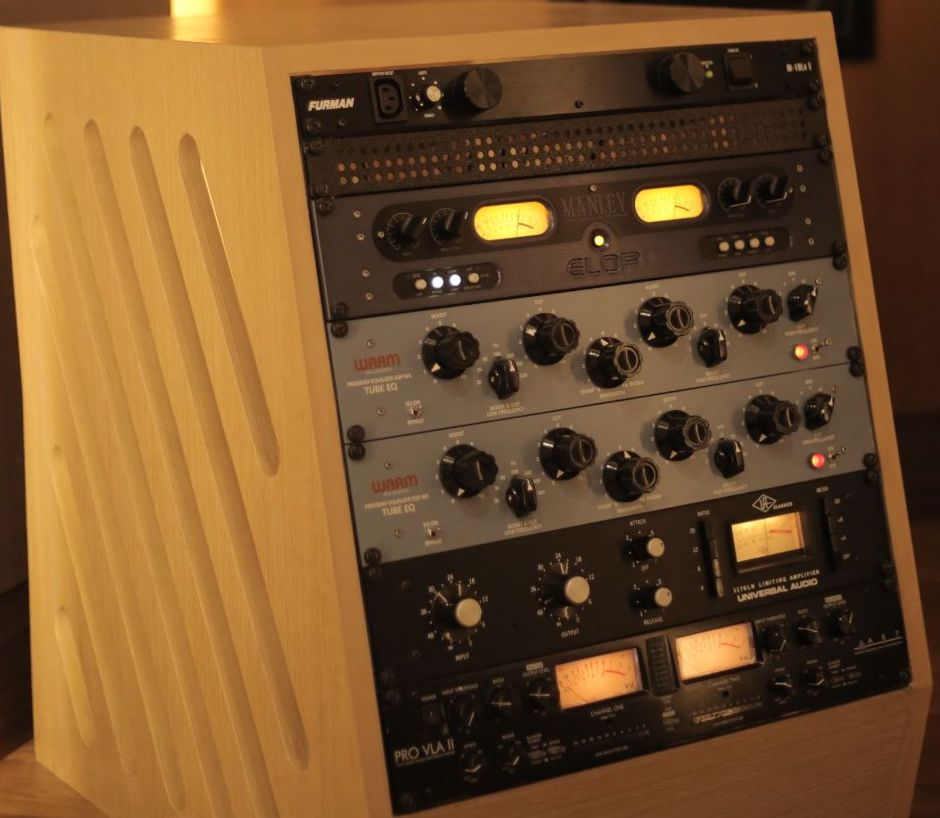
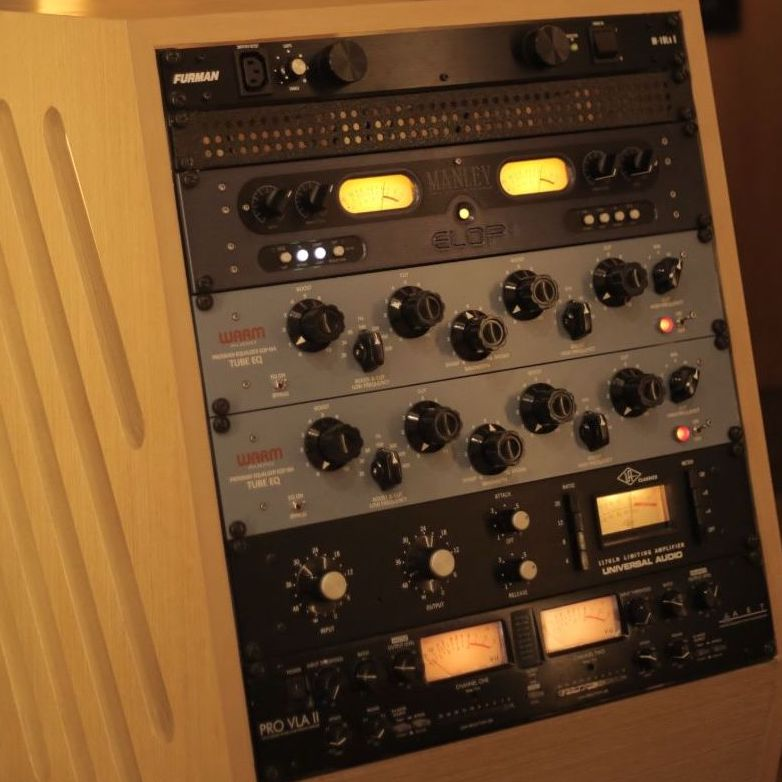
add : largeadd : large images

diff --git a/studio.html b/studio.html
@@ -339,31 +339,31 @@
                     case 1: 
                         var slider_html = `
                           <div>
-                            <a href="images/studio/CR1.jpg" data-lightbox="CR1"><img src="images/studio/CR1.jpg"></a>
+                            <a href="images/studio-big/CR1.jpg" data-lightbox="CR"><img src="images/studio/CR1.jpg"></a>
                           </div>
                           <div>
-                            <a href="images/studio/CR2.jpg" data-lightbox="CR2"><img src="images/studio/CR2.jpg" style="margin-top: -196px;"></a>
+                            <a href="images/studio-big/CR2.jpg" data-lightbox="CR"><img src="images/studio/CR2.jpg" style="margin-top: -196px;"></a>
                           </div>
                           <div>
-                            <a href="images/studio/CR3.jpg" data-lightbox="CR3"><img src="images/studio/CR3.jpg"></a>
+                            <a href="images/studio-big/CR3.jpg" data-lightbox="CR"><img src="images/studio/CR3.jpg"></a>
                           </div>
                           <div>
-                            <a href="images/studio/CR4.jpg" data-lightbox="CR4"><img src="images/studio/CR4.jpg"></a>
+                            <a href="images/studio-big/CR4.jpg" data-lightbox="CR"><img src="images/studio/CR4.jpg"></a>
                           </div>
                           <div>
-                            <a href="images/studio/CR5.jpg" data-lightbox="CR5"><img src="images/studio/CR5.jpg"></a>
+                            <a href="images/studio-big/CR5.jpg" data-lightbox="CR"><img src="images/studio/CR5.jpg"></a>
                           </div>
                           <div>
-                            <a href="images/studio/CR6.jpg" data-lightbox="CR6"><img src="images/studio/CR6.jpg"></a>
+                            <a href="images/studio-big/CR6.jpg" data-lightbox="CR"><img src="images/studio/CR6.jpg"></a>
                           </div>
                           <div>
-                            <a href="images/studio/CR7.jpg" data-lightbox="CR7"><img src="images/studio/CR7.jpg"></a>
+                            <a href="images/studio-big/CR7.jpg" data-lightbox="CR"><img src="images/studio/CR7.jpg"></a>
                           </div>
                           <div>
-                            <a href="images/studio/CR8.jpg" data-lightbox="CR8"><img src="images/studio/CR8.jpg"></a>
+                            <a href="images/studio-big/CR8.jpg" data-lightbox="CR"><img src="images/studio/CR8.jpg"></a>
                           </div>
                           <div>
-                            <a href="images/studio/CR9.jpg" data-lightbox="CR9"><img src="images/studio/CR9.jpg"></a>
+                            <a href="images/studio-big/CR9.jpg" data-lightbox="CR"><img src="images/studio/CR9.jpg"></a>
                           </div>
                         `;
                         $("#slider-1").html(slider_html);
@@ -397,43 +397,43 @@
                     case 2: 
                         var slider_html = `
                           <div>
-                            <a href="images/studio/LR1.jpg" data-lightbox="LR1"><img src="images/studio/LR1.jpg"></a>
+                            <a href="images/studio-big/LR1.jpg" data-lightbox="LR"><img src="images/studio/LR1.jpg"></a>
                           </div>
                           <div>
-                            <a href="images/studio/LR2.jpg" data-lightbox="LR2"><img src="images/studio/LR2.jpg"></a>
+                            <a href="images/studio-big/LR2.jpg" data-lightbox="LR"><img src="images/studio/LR2.jpg"></a>
                           </div>
                           <div>
-                            <a href="images/studio/LR3.jpg" data-lightbox="LR3"><img src="images/studio/LR3.jpg"></a>
+                            <a href="images/studio-big/LR3.jpg" data-lightbox="LR"><img src="images/studio/LR3.jpg"></a>
                           </div>
                           <div>
-                            <a href="images/studio/LR4.jpg" data-lightbox="LR4"><img src="images/studio/LR4.jpg"></a>
+                            <a href="images/studio-big/LR4.jpg" data-lightbox="LR"><img src="images/studio/LR4.jpg"></a>
                           </div>
                           <div>
-                            <a href="images/studio/LR5.jpg" data-lightbox="LR5"><img src="images/studio/LR5.jpg"></a>
+                            <a href="images/studio-big/LR5.jpg" data-lightbox="LR"><img src="images/studio/LR5.jpg"></a>
                           </div>
                           <div>
-                            <a href="images/studio/LR6.jpg" data-lightbox="LR6"><img src="images/studio/LR6.jpg"></a>
+                            <a href="images/studio-big/LR6.jpg" data-lightbox="LR"><img src="images/studio/LR6.jpg"></a>
                           </div>
                           <div>
-                            <a href="images/studio/LR7.jpg" data-lightbox="LR7"><img src="images/studio/LR7.jpg"></a>
+                            <a href="images/studio-big/LR7.jpg" data-lightbox="LR"><img src="images/studio/LR7.jpg"></a>
                           </div>
                           <div>
-                            <a href="images/studio/LR8.jpg" data-lightbox="LR8"><img src="images/studio/LR8.jpg"></a>
+                            <a href="images/studio-big/LR8.jpg" data-lightbox="LR"><img src="images/studio/LR8.jpg"></a>
                           </div>
                           <div>
-                            <a href="images/studio/LR9.jpg" data-lightbox="LR9"><img src="images/studio/LR9.jpg"></a>
+                            <a href="images/studio-big/LR9.jpg" data-lightbox="LR"><img src="images/studio/LR9.jpg"></a>
                           </div>
                           <div>
-                            <a href="images/studio/LR10.jpg" data-lightbox="LR10"><img src="images/studio/LR10.jpg"></a>
+                            <a href="images/studio-big/LR10.jpg" data-lightbox="LR"><img src="images/studio/LR10.jpg"></a>
                           </div>
                           <div>
-                            <a href="images/studio/IB1.jpg" data-lightbox="IB1"><img src="images/studio/IB1.jpg"></a>
+                            <a href="images/studio-big/IB1.jpg" data-lightbox="LR"><img src="images/studio/IB1.jpg"></a>
                           </div>
                           <div>
-                            <a href="images/studio/IB2.jpg" data-lightbox="IB2"><img src="images/studio/IB2.jpg"></a>
+                            <a href="images/studio-big/IB2.jpg" data-lightbox="LR"><img src="images/studio/IB2.jpg"></a>
                           </div>
                           <div>
-                            <a href="images/studio/IB3.jpg" data-lightbox="IB3"><img src="images/studio/IB3.jpg"></a>
+                            <a href="images/studio-big/IB3.jpg" data-lightbox="LR"><img src="images/studio/IB3.jpg"></a>
                           </div>
                         `;
                         $("#slider-1").html(slider_html);
@@ -470,13 +470,13 @@
             }
             lightbox.option({
               'resizeDuration': 200,
-              'wrapAround': true,
               'showImageNumberLabel': false,
               'resizeDuration': 300,
-              'positionFromTop': 16,
-              'fitImagesInViewport': false,
+              'positionFromTop': 40,
+              'fitImagesInViewport': true,
               'fadeDuration': 200,
               'imageFadeDuration': 200,
+              'alwaysShowNavOnTouchDevices': true
 
             });
         </script>

diff --git a/css/custo.css b/css/custo.css
@@ -257,12 +257,12 @@ Won't work for this case. Pushes all the divs with this class to the first colum
 
 .studio-features {
 	background-color: #ffffff;
-	padding: 8px;
-	margin: 0 24px;
-	display: flex;
+  padding: 8px;
+  margin: 0 24px;
+  display: flex;
   flex-flow: row wrap;
   justify-content: center;
-  align-items: center;
+  align-items: flex-start;
 }
 .studio-features-lists {
 	background-color: #ffffff;
@@ -288,6 +288,7 @@ Won't work for this case. Pushes all the divs with this class to the first colum
 	align-items: center;
 	padding: 0;
 	background: transparent;
+	width: 100%;
 }
 .studio-features-controls > div {
 	margin: 8px;
@@ -323,7 +324,7 @@ Won't work for this case. Pushes all the divs with this class to the first colum
 	-o-transition: all 0.3s ease 0s;
 }
 .bx-viewport {
-	max-height: 100%;
+	 max-height: 560px;
 }
 @media (min-width: 700px) {
 	.bg-size-control {
